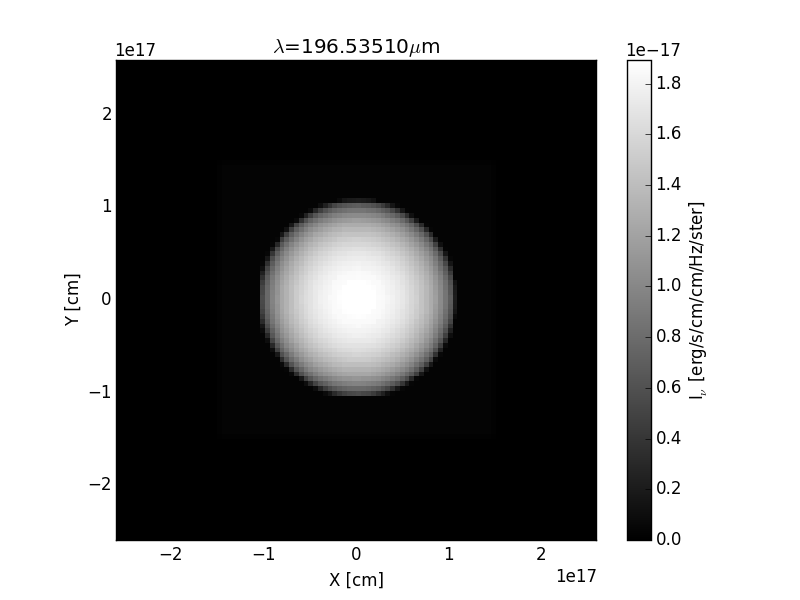
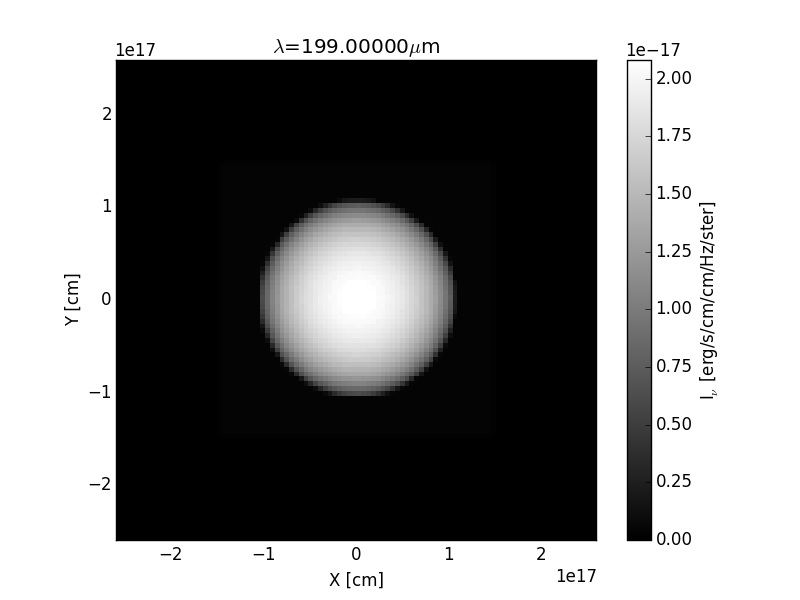
Working sims for SPIRE extended passbands

diff --git a/Code/datafiles/vanilla/datafilegen.py b/Code/datafiles/vanilla/datafilegen.py
@@ -127,6 +127,8 @@ for k in z:
 
 print '\'amr_grid.inp\' has been written to the working directory\n'
 
+amr.close()
+
 ################################################################################
 ############# Set up dust_density.inp and dust_temperature.inp #################
 ################################################################################
@@ -206,6 +208,8 @@ for n in range(0,len(z)-1):
                 y_cube[l,m,n] = y[m]
                 z_cube[l,m,n] = z[n]
 
+density.close()
+temperature.close()
 
 ################################################################################
 ######################### Set up dustkappa_silicate.inp ########################
@@ -288,6 +292,8 @@ for o in range(0,len(w)):
 
 print '\'dustkappa_silicate.inp\' written to the working directory\n'
 
+silicate.close()
+
 ################################################################################
 ######################### Set up wavelength_micron.inp #########################
 ################################################################################
@@ -314,6 +320,8 @@ for p in wavs:
         wavelength_micron.write(str(10**(p)))
     else:
         wavelength_micron.write(str(10**(p)) + str('\n'))
+
+wavelength_micron.close()
 
 ################################################################################
 ####################### Set up camera_wavelength_micron.inp ####################
@@ -342,6 +350,8 @@ for q in cam_wavs:
         camera.write(str(10**(q)))
     else:
         camera.write(str(10**(q)) + str('\n'))
+
+camera.close()
 
 '''
 ################################################################################

diff --git a/Code/simulations/workingsims/psw/sim_psw.py b/Code/simulations/workingsims/psw/sim_psw.py
@@ -31,10 +31,11 @@ os.system('radmc3d image loadlambda')
 ############################# Plot the resulting data ##########################
 
 # Define wavelength ranges of spire to plot (PSW, PMW and PLW)
-spire = [[196.5351,298.1259],[277.3117,423.4707],[386.6218,679.3126]]
+#spire = [[196.5351,298.1259],[277.3117,423.4707],[386.6218,679.3126]]
+psw_ext = [199.4540,298.5657]
 
 # Plot image for first SPIRE wavelength band (PSW)
-radmc3dPy.image.makeImage(npix=100000, sizeau=20000, incl=90., lambdarange=[196.5351,298.1259], nlam=60)
+radmc3dPy.image.makeImage(npix=100000, sizeau=20000, incl=90., lambdarange=psw_ext, nlam=60)
 
 # Initialise the image
 imag = radmc3dPy.image.readImage()

diff --git a/Code/simulations/workingsims/plw/sim_plw.py b/Code/simulations/workingsims/plw/sim_plw.py
@@ -31,10 +31,11 @@ os.system('radmc3d image loadlambda')
 ############################# Plot the resulting data ##########################
 
 # Define wavelength ranges of spire to plot (PSW, PMW and PLW)
-spire = [[196.5351,298.1259],[277.3117,423.4707],[386.6218,679.3126]]
+#spire = [[196.5351,298.1259],[277.3117,423.4707],[386.6218,679.3126]]
+plw_ext = [391.4346,690.8139]
 
 # Plot image for first SPIRE wavelength band (PSW)
-radmc3dPy.image.makeImage(npix=100000, sizeau=20000, incl=90.)
+radmc3dPy.image.makeImage(npix=100000, sizeau=20000, incl=90., lambdarange=plw_ext, nlam=60)
 
 # Initialise the image
 imag = radmc3dPy.image.readImage()

diff --git a/Code/simulations/workingsims/pmw/sim_pmw.py b/Code/simulations/workingsims/pmw/sim_pmw.py
@@ -31,10 +31,11 @@ os.system('radmc3d image loadlambda')
 ############################# Plot the resulting data ##########################
 
 # Define wavelength ranges of spire to plot (PSW, PMW and PLW)
-spire = [[196.5351,298.1259],[277.3117,423.4707],[386.6218,679.3126]]
+#spire = [[196.5351,298.1259],[277.3117,423.4707],[386.6218,679.3126]]
+pmw_ext = [281.6949,424.7548]
 
 # Plot image for first SPIRE wavelength band (PSW)
-radmc3dPy.image.makeImage(npix=100000, sizeau=20000, incl=90.)
+radmc3dPy.image.makeImage(npix=100000, sizeau=20000, incl=90., lambdarange=pmw_ext, nlam=60)
 
 # Initialise the image
 imag = radmc3dPy.image.readImage()
